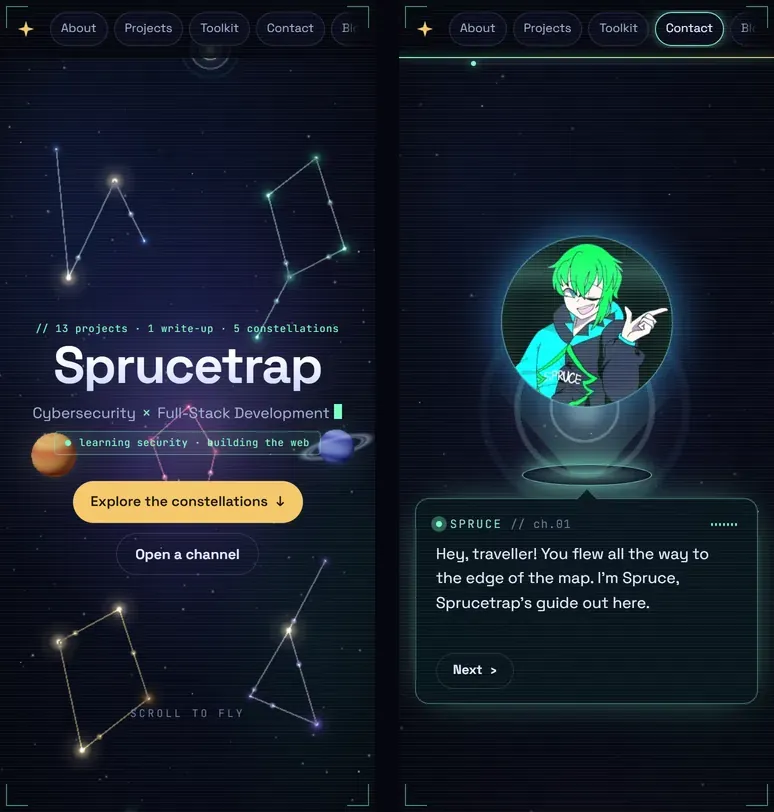
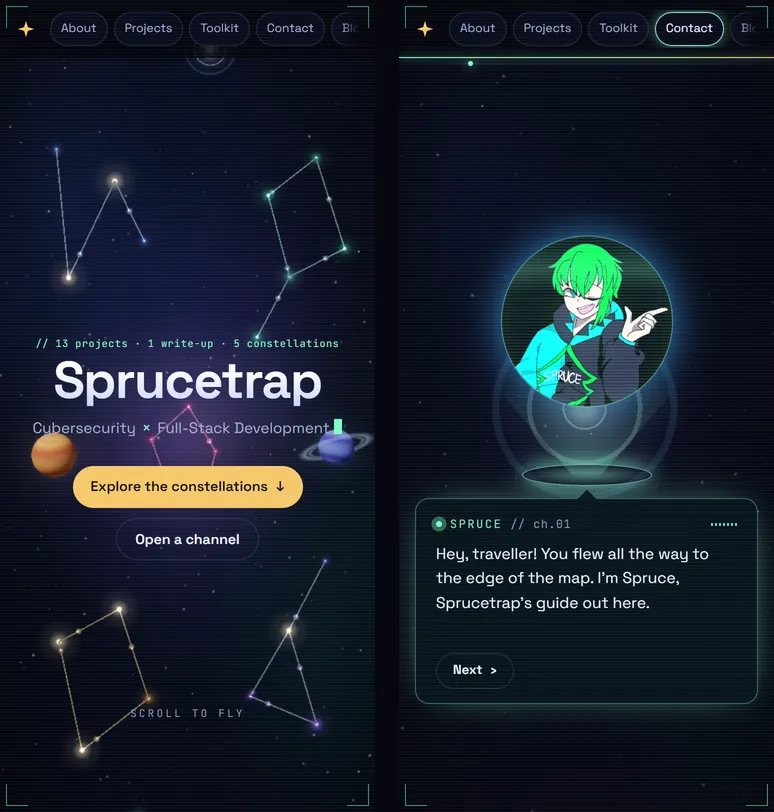
style: fix unslop and UI checklist gaps (v2.4.6)
- Remove the filler status pill from the hero and its CSS
- Raise --text-faint to #8b95bd (about 6.9:1 on the page, 6.2:1 on surfaces)
- Balance heading wraps and use pretty wrapping for paragraphs and list items
- Use tabular numbers for dates, post meta and the boot readout
- Show a focus ring on the terminal input row, which hides the input outline
- Reserve space for a loading or failed blog post so the pager doesn't jump
- Retake the README screenshots
- Bump version to 2.4.6

diff --git a/src/styles/hud.css b/src/styles/hud.css
@@ -69,19 +69,6 @@
     opacity: 0;
   }
 }
-.status-chip {
-  display: inline-flex;
-  align-items: center;
-  gap: 8px;
-  margin: 10px 0 0;
-  padding: 3px 10px;
-  border: 1px solid color-mix(in srgb, var(--signal) 35%, transparent);
-  border-radius: 4px;
-  background: color-mix(in srgb, var(--signal) 6%, transparent);
-  font-size: 11px;
-  letter-spacing: 0.04em;
-  color: var(--signal);
-}
 .pulse-dot {
   width: 6px;
   height: 6px;
@@ -163,13 +150,8 @@
   .nav .hud-chip .blog-icon {
     display: none;
   }
-  .status-chip {
-    margin-top: 6px;
-    font-size: 10px;
-  }
 }
 @media (max-height: 500px) and (orientation: landscape) {
-  .status-chip,
   .telemetry {
     display: none;
   }

diff --git a/src/pages/blog/BlogPost.tsx b/src/pages/blog/BlogPost.tsx
@@ -69,9 +69,9 @@ export function BlogPost() {
           // HTML is generated at build time from the site's own Markdown files (plugins/posts.ts), not user input.
           <div className="prose" dangerouslySetInnerHTML={{ __html: post.html }} />
         ) : failed ? (
-          <p className="empty">This post failed to load. Check your connection and refresh.</p>
+          <p className="empty post-placeholder">This post failed to load. Check your connection and refresh.</p>
         ) : (
-          <p className="empty mono" aria-live="polite">
+          <p className="empty mono post-placeholder" aria-live="polite">
             &gt; decrypting transmission…
           </p>
         )}

diff --git a/src/pages/ScrollPage.tsx b/src/pages/ScrollPage.tsx
@@ -128,9 +128,6 @@ export function ScrollPage() {
           <p className="hero-sub">
             Cybersecurity <span className="signal">×</span> Full-Stack Development<span className="caret" aria-hidden="true" />
           </p>
-          <p className="status-chip mono">
-            <span className="pulse-dot" aria-hidden="true" /> learning security · building the web
-          </p>
           <div className="hero-actions">
             <Link className="btn" to={hrefForSection('projects')}>
               Explore the constellations <span aria-hidden="true">↓</span>

diff --git a/src/styles/base.css b/src/styles/base.css
@@ -48,6 +48,24 @@ button {
   outline-offset: 3px;
 }
 
+h1,
+h2,
+h3,
+h4 {
+  text-wrap: balance;
+}
+p,
+li {
+  text-wrap: pretty;
+}
+
+/* Dates, counters and readouts keep their width as digits change. */
+time,
+.post-meta,
+.hero-kicker {
+  font-variant-numeric: tabular-nums;
+}
+
 .sr-only {
   position: absolute;
   width: 1px;

diff --git a/src/styles/terminal.css b/src/styles/terminal.css
@@ -80,6 +80,12 @@
   padding: 8px 14px 12px;
   font-size: 13px;
 }
+/* The input drops its own outline, so the row shows focus instead. */
+.terminal-input:focus-within {
+  outline: 2px solid var(--gold);
+  outline-offset: -2px;
+  border-radius: 6px;
+}
 .terminal-input label {
   flex: none;
   color: var(--signal);

diff --git a/src/styles/tokens.css b/src/styles/tokens.css
@@ -7,7 +7,7 @@
   --border: rgba(160, 180, 255, 0.16);
   --text: #e8ecff;
   --text-dim: #a3aed6;
-  --text-faint: #6f7aa3;
+  --text-faint: #8b95bd;
   --gold: #f5c86b;
   /* Phosphor green for HUD chrome (prompts, readouts, terminal); --alert for errors. */
   --signal: #7cffc4;

diff --git a/src/styles/doc.css b/src/styles/doc.css
@@ -170,6 +170,11 @@
 }
 
 /* Long-form text: comfortable measure and rhythm. */
+/* Holds the post's space while it loads, so the pager below doesn't jump. */
+.post-placeholder {
+  min-height: 60vh;
+}
+
 .prose {
   max-width: 68ch;
   font-size: 1.05rem;

diff --git a/README.md b/README.md
@@ -8,7 +8,7 @@
 
 **A cybersecurity × full-stack portfolio you scroll through like a flight across the night sky.**
 
-![Version](https://img.shields.io/badge/version-2.4.5-informational?style=flat)
+![Version](https://img.shields.io/badge/version-2.4.6-informational?style=flat)
 ![License](https://img.shields.io/badge/license-Sprucetrap%20Source--Available-orange?style=flat)
 [![CI](https://img.shields.io/github/actions/workflow/status/Jevoel16/Portfolio/ci.yml?branch=main&label=CI&style=flat)](https://github.com/Jevoel16/Portfolio/actions/workflows/ci.yml)
 ![Platform](https://img.shields.io/badge/platform-web%20%7C%20mobile-success?style=flat)
